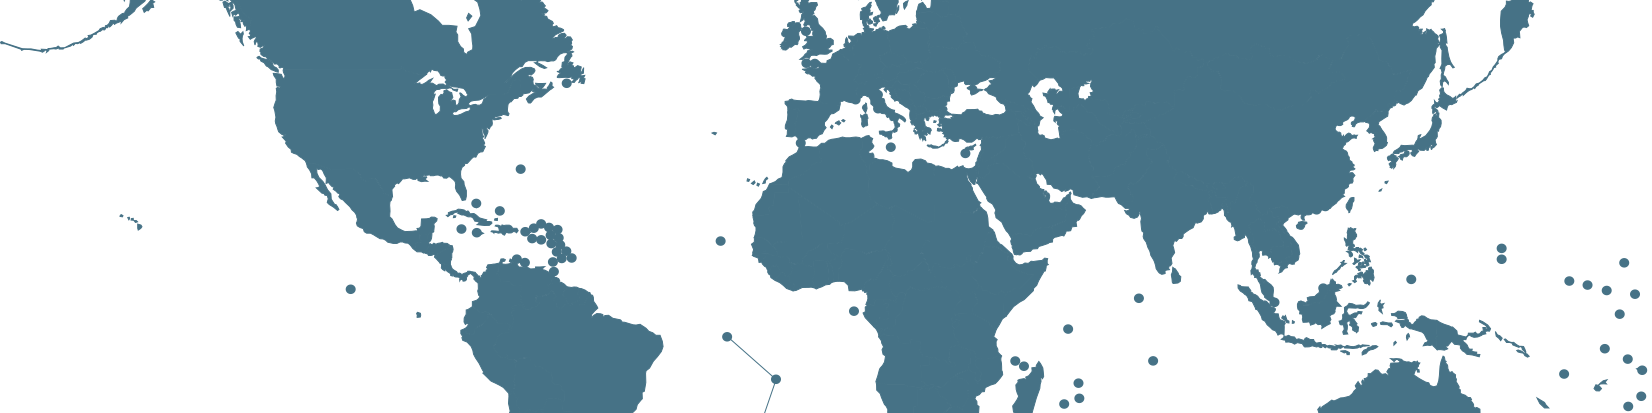
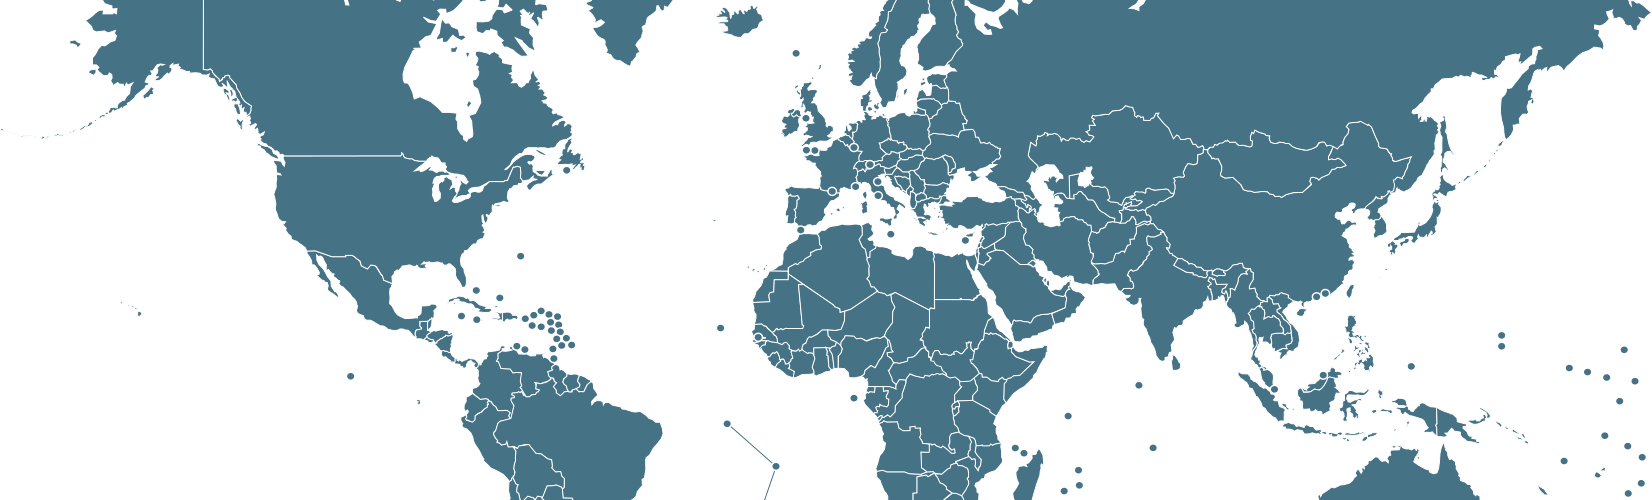
add all flights

diff --git a/bin/css/squiffles.css b/bin/css/squiffles.css
@@ -309,13 +309,18 @@ td {
   border-radius: 50%;
   font-style: normal;
 }
+.map-arc.map-arc-plane {
+  border-width: 0.1em 0 0 0;
+}
+.map-arc.map-arc-thumb {
+  border-width: 0.2em 0 0 0;
+}
 .map-point {
   display: block;
   position: absolute;
-  width: 0.35em;
-  height: 0.35em;
+  width: 0.4em;
+  height: 0.4em;
   margin: -0.2em;
-  border: 0.05em solid;
   border-radius: 0.2em;
 }
 .map-point::before {
@@ -331,7 +336,7 @@ td {
   display: block;
   position: absolute;
   top: 0.2em;
-  width: 20em;
+  width: 0;
   height: 2em;
   overflow: hidden;
   white-space: nowrap;
@@ -643,19 +648,19 @@ a.honeycomb-cell {
 }
 .aside {
   position: absolute;
+  bottom: 0;
   width: 24em;
   padding: 2em 0;
 }
 .aside-left {
-  left: -24em;
-  width: 24em;
+  left: 7.6em;
   transform: rotate(-90deg);
-  transform-origin: top right;
+  transform-origin: bottom left;
 }
 .aside-right {
-  right: -24em;
+  right: 7.6em;
   transform: rotate(90deg);
-  transform-origin: top left;
+  transform-origin: bottom right;
 }
 .showcase {
   text-align: center;
@@ -984,11 +989,11 @@ body.page #sidebar {
   height: 24em;
   color: #374952;
 }
-#about h2 {
-  color: #a6b8c1;
-}
 #about .aside, #about .honeycomb-cell {
   background-color: #374952;
+}
+#about h2 {
+  color: #a6b8c1;
 }
 #about .drop {
   color: #27556c;
@@ -1126,17 +1131,19 @@ body.page #sidebar {
   margin: 1.5em 13em 1.5em 3em;
 }
 #travel {
-  height: 24em;
+  height: 28em;
   background-color: #a6b8c1;
 }
 #travel h2 {
   color: #467286;
 }
-#travel .map-arc {
+#travel .map-arc.map-arc-plane {
+  border-color: rgba(55, 73, 82, 0.6);
+}
+#travel .map-arc.map-arc-thumb {
   border-color: rgba(157, 54, 76, 0.6);
 }
 #travel .map-point {
-  border-color: #374952;
   background-color: #aa9439;
 }
 #gallery {

diff --git a/src/index.php b/src/index.php
@@ -5,12 +5,12 @@ function squiffles_project($lat, $lng) {
   list($width, $height) = getimagesize(__DIR__ . '/../bin/images/world.png');
 
   return array(
-    ($lng + 187) * $width / 330,
-    355 - $width * log(tan(M_PI / 4 + $lat * M_PI / 360)) / M_PI / 2 * 1.1
+    ($lng + 188) * $width / 343,
+    440 - $width * log(tan(M_PI / 4 + $lat * M_PI / 360)) / M_PI / 2 * 1.05
   );
 }
 
-function squiffles_arc($lat0, $lng0, $lat1, $lng1, $height) {
+function squiffles_arc($lat0, $lng0, $lat1, $lng1, $height, $type) {
   list($x0, $y0) = squiffles_project($lat0, $lng0);
   list($x1, $y1) = squiffles_project($lat1, $lng1);
   $x = $x1 - $x0;
@@ -19,18 +19,21 @@ function squiffles_arc($lat0, $lng0, $lat1, $lng1, $height) {
   $top = ($y0 + $y1 - $height) / 2;
   $left = ($x0 + $x1 - $width) / 2;
   $theta = atan2($y, $x) * 180 / M_PI;
-  $transform = sprintf('transform: rotate(%ddeg);', $theta);
+  $transform = sprintf('transform: rotate(%.2fdeg);', $theta);
 
-  return sprintf(
-    'width: %.2fem; height: %.2fem; top: %.2fem; left: %.2fem; -webkit-%s ' .
-        '-moz-%s %s',
-    $width / 20,
-    $height / 20,
-    $top / 20,
-    $left / 20,
-    $transform,
-    $transform,
-    $transform
+  return array(
+    'style' => sprintf(
+      'width: %.2fem; height: %.2fem; top: %.2fem; left: %.2fem; -webkit-%s ' .
+          '-moz-%s %s',
+      $width / 20,
+      $height / 20,
+      $top / 20,
+      $left / 20,
+      $transform,
+      $transform,
+      $transform
+    ),
+    'type' => $type
   );
 }
 
@@ -45,37 +48,102 @@ function squiffles_point($lat, $lng, $label, $right) {
 }
 
 $arcs = array(
-  squiffles_arc(35.0044, -118.9495, 34.0522, -118.2437,  5), // 2014-11-06
-  squiffles_arc(37.7749, -122.4194, 35.0044, -118.9495, 10), // 2014-11-07
-  squiffles_arc(38.5816, -121.4944, 34.0522, -118.2437, 25), // 2015-03-23
-  squiffles_arc(44.0521, -123.0868, 38.5816, -121.4944, 10), // 2015-03-24
-  squiffles_arc(45.5051, -122.6750, 44.0521, -123.0868, 10), // 2015-03-25
-  squiffles_arc(47.6062, -122.3321, 45.5051, -122.6750, 10), // 2015-03-27
-  squiffles_arc(49.2827, -123.1207, 47.6062, -122.3321, 10), // 2015-03-29
-  squiffles_arc(34.0522, -118.2437, 35.4894, -120.6707, 10), // 2015-07-03
-  squiffles_arc(35.4894, -120.6707, 37.7749, -122.4194, 10), // 2015-07-04
-  squiffles_arc(34.0522, -118.2437, 37.7749, -122.4194, 30), // 2015-08-22
-  squiffles_arc(34.0522, -118.2437, 37.7749, -122.4194, 45), // 2015-11-21
-  squiffles_arc(49.2827, -123.1207, 47.9790, -122.2021, 25), // 2016-03-18
-  squiffles_arc(47.9790, -122.2021, 45.5051, -122.6750, 25), // 2016-03-19
-  squiffles_arc(45.5051, -122.6750, 47.6062, -122.3321, 10), // 2016-03-20
-  squiffles_arc(47.6062, -122.3321, 49.2827, -123.1207, 10), // 2016-03-21
-  squiffles_arc(36.1699, -115.1398, 34.0522, -118.2437, 10), // 2016-06-12
-  squiffles_arc(36.1699, -115.1398, 38.7725, -112.0841, 15), // 2016-06-13
-  squiffles_arc(38.7725, -112.0841, 39.7392, -104.9903, 20), // 2016-06-14
-  squiffles_arc(35.6762,  139.6503, 34.6937,  135.5023, 10), // 2017-03-21
-  squiffles_arc(34.6937,  135.5023, 35.6762,  139.6503, 10), // 2017-03-24
-  squiffles_arc(44.4268,   26.1025, 45.6427,   25.5887, 10), // 2017-07-05
-  squiffles_arc(45.6427,   25.5887, 44.1598,   28.6348, 10), // 2017-07-07
-  squiffles_arc(44.1598,   28.6348, 43.2141,   27.9147, 15), // 2017-07-11
-  squiffles_arc(43.2141,   27.9147, 41.9981,   21.4254, 20), // 2017-07-13
-  squiffles_arc(41.9981,   21.4254, 42.6629,   21.1655,  5), // 2017-07-16
-  squiffles_arc(39.1677, -120.1452, 37.7749, -122.4194, 10), // 2017-09-02
-  squiffles_arc(37.7749, -122.4194, 39.1677, -120.1452, 10), // 2017-09-03
-  squiffles_arc(45.4408,   12.3155, 44.4949,   11.3426, 10), // 2018-03-26
-  squiffles_arc(33.5731,   -7.5898, 31.6295,   -7.9811, 10), // 2018-09-08
-  squiffles_arc(55.9202,   21.0678, 56.5047,   21.0108,  5), // 2018-09-21
-  squiffles_arc( 3.1390,  101.6869,  5.4380,  100.3882, 10)  // 2019-01-26
+  squiffles_arc(45.5051, -122.6750, 34.0522, -118.2437,  20, 'plane'), // 2013-04-23
+  squiffles_arc(45.5051, -122.6750, 34.0522, -118.2437,  30, 'plane'), // 2013-04-28
+  squiffles_arc(45.5051, -122.6750, 31.2304,  121.4737, 150, 'plane'), // 2014-09-09
+  squiffles_arc(45.5051, -122.6750, 31.2304,  121.4737, 165, 'plane'), // 2014-09-24
+  squiffles_arc(34.0522, -118.2437, 37.7749, -122.4194,   5, 'plane'), // 2015-01-11
+  squiffles_arc(37.7749, -122.4194, 34.0522, -118.2437,  20, 'plane'), // 2015-01-12
+  squiffles_arc(49.2827, -123.1207, 34.0522, -118.2437,  45, 'plane'), // 2015-03-31
+  squiffles_arc(45.5051, -122.6750, 25.7617,  -80.1918,  60, 'plane'), // 2015-09-10
+  squiffles_arc(45.5051, -122.6750, 25.7617,  -80.1918,  75, 'plane'), // 2015-09-19
+  squiffles_arc( 4.7110,  -74.0721, 34.0522, -118.2437,  45, 'plane'), // 2016-03-07
+  squiffles_arc( 4.7110,  -74.0721, 34.0522, -118.2437,  60, 'plane'), // 2016-03-11
+  squiffles_arc(49.2827, -123.1207, 34.0522, -118.2437,  55, 'plane'), // 2016-03-16
+  squiffles_arc(39.7392, -104.9903, 34.0522, -118.2437,  30, 'plane'), // 2016-06-17
+  squiffles_arc(34.0522, -118.2437, 51.5074,    0.1278,  30, 'plane'), // 2016-12-03
+  squiffles_arc(34.0522, -118.2437, 51.5074,    0.1278,  45, 'plane'), // 2016-12-09
+  squiffles_arc(45.5051, -122.6750, 36.1699, -115.1398,  35, 'plane'), // 2016-12-25
+  squiffles_arc(45.5051, -122.6750, 36.1699, -115.1398,  45, 'plane'), // 2016-12-28
+  squiffles_arc(41.8781,  -87.6298, 34.0522, -118.2437,  45, 'plane'), // 2016-02-03
+  squiffles_arc(41.8781,  -87.6298, 34.0522, -118.2437,  60, 'plane'), // 2016-02-07
+  squiffles_arc(35.6762,  139.6503, 34.0522, -118.2437, 165, 'plane'), // 2017-03-19
+  squiffles_arc(35.6762,  139.6503, 34.0522, -118.2437, 180, 'plane'), // 2017-03-29
+  squiffles_arc(31.2304,  121.4737, 44.4268,   26.1025,  60, 'plane'), // 2017-07-02
+  squiffles_arc(44.7866,   20.4489, 34.0522, -118.2437, 120, 'plane'), // 2017-07-21
+  squiffles_arc(37.7749, -122.4194, 53.3498,   -6.2603, 135, 'plane'), // 2017-10-21
+  squiffles_arc(53.3498,   -6.2603, 50.0755,   14.4378,  45, 'plane'), // 2017-10-29
+  squiffles_arc(48.1351,   11.5820, 37.7749, -122.4194,  45, 'plane'), // 2017-11-03
+  squiffles_arc(37.7749, -122.4194, 39.7392, -104.9903,  40, 'plane'), // 2017-11-18
+  squiffles_arc(37.7749, -122.4194, 39.7392, -104.9903,  50, 'plane'), // 2017-11-20
+  squiffles_arc(37.7749, -122.4194, 36.1699, -115.1398,  15, 'plane'), // 2017-12-02
+  squiffles_arc(37.7749, -122.4194, 36.1699, -115.1398,  25, 'plane'), // 2017-12-04
+  squiffles_arc(37.7749, -122.4194, 45.5051, -122.6750,  25, 'plane'), // 2017-12-22
+  squiffles_arc(37.7749, -122.4194, 45.5051, -122.6750,  35, 'plane'), // 2018-01-04
+  squiffles_arc(37.7749, -122.4194, 35.0844, -106.6504,  40, 'plane'), // 2018-01-13
+  squiffles_arc(37.7749, -122.4194, 35.0844, -106.6504,  50, 'plane'), // 2018-01-16
+  squiffles_arc(37.7749, -122.4194, 47.6062, -122.3321,  50, 'plane'), // 2018-03-16
+  squiffles_arc(47.6062, -122.3321, 53.3498,   -6.2603,  60, 'plane'), // 2018-03-19
+  squiffles_arc(53.3498,   -6.2603, 45.4408,   12.3155,  45, 'plane'), // 2018-03-24
+  squiffles_arc(41.9028,   12.4964, 37.7749, -122.4194,  75, 'plane'), // 2018-03-31
+  squiffles_arc(32.7767,  -96.7970, 37.7749, -122.4194,  70, 'plane'), // 2018-06-24
+  squiffles_arc(32.7767,  -96.7970, 37.7749, -122.4194,  80, 'plane'), // 2018-06-27
+  squiffles_arc(33.5731,   -7.5898, 37.7749, -122.4194,  60, 'plane'), // 2018-09-01
+  squiffles_arc(33.5731,   -7.5898, 37.7749, -122.4194,  75, 'plane'), // 2018-09-07
+  squiffles_arc(37.7749, -122.4194, 59.9139,   10.7522, 165, 'plane'), // 2018-09-15
+  squiffles_arc(59.9139,   10.7522, 56.5047,   21.0108,  30, 'plane'), // 2018-09-16
+  squiffles_arc(37.7749, -122.4194, 56.5047,   21.0108, 165, 'plane'), // 2018-09-26
+  squiffles_arc(27.9506,  -82.4572, 37.7749, -122.4194, 105, 'plane'), // 2018-10-07
+  squiffles_arc(27.9506,  -82.4572, 37.7749, -122.4194, 120, 'plane'), // 2018-10-09
+  squiffles_arc(32.7767,  -96.7970, 34.0522, -118.2437,  30, 'plane'), // 2019-01-07
+  squiffles_arc( 3.1390,  101.6869, 37.7749, -122.4194, 120, 'plane'), // 2019-01-19
+  squiffles_arc( 6.3500,   99.8000, 37.7749, -122.4194, 120, 'plane'), // 2019-01-19
+  squiffles_arc(37.7749, -122.4194, 52.2297,   21.0122,  60, 'plane'), // 2019-03-31
+  squiffles_arc(37.7749, -122.4194, 52.2297,   21.0122,  75, 'plane'), // 2019-04-14
+  squiffles_arc(30.2672,  -97.7431, 37.7749, -122.4194,  75, 'plane'), // 2019-10-13
+  squiffles_arc(40.4406,  -79.9959, 30.2672,  -97.7431,  30, 'plane'), // 2019-10-19
+  squiffles_arc(32.7157, -117.1611, 37.7749, -122.4194,  60, 'plane'), // 2019-11-16
+  squiffles_arc(39.7392, -104.9903, 34.0522, -118.2437,  20, 'plane'), // 2019-11-23
+  squiffles_arc(37.9838,   23.7275, 37.7749, -122.4194, 120, 'plane'), // 2020-01-05
+  squiffles_arc(47.4979,   19.0402, 37.9838,   23.7275,  25, 'plane'), // 2020-01-10
+  squiffles_arc(43.7102,    7.2620, 47.4979,   19.0402,  25, 'plane'), // 2020-01-17
+  squiffles_arc(45.5051, -122.6750, 43.7102,    7.2620,  75, 'plane'), // 2020-01-23
+  squiffles_arc(45.5051, -122.6750, 40.4406,  -79.9959,  45, 'plane'), // 2020-01-26
+  squiffles_arc(39.7392, -104.9903, 40.4406,  -79.9959,  40, 'plane'), // 2020-03-10
+  squiffles_arc(47.6062, -122.3321, 40.4406,  -79.9959,  45, 'plane'), // 2020-09-15
+  squiffles_arc(21.3069, -157.8583, 47.6062, -122.3321,  60, 'plane'), // 2020-09-16
+  squiffles_arc(35.0044, -118.9495, 34.0522, -118.2437,   5, 'thumb'), // 2014-11-06
+  squiffles_arc(37.7749, -122.4194, 35.0044, -118.9495,  10, 'thumb'), // 2014-11-07
+  squiffles_arc(38.5816, -121.4944, 34.0522, -118.2437,  25, 'thumb'), // 2015-03-23
+  squiffles_arc(44.0521, -123.0868, 38.5816, -121.4944,  10, 'thumb'), // 2015-03-24
+  squiffles_arc(45.5051, -122.6750, 44.0521, -123.0868,  10, 'thumb'), // 2015-03-25
+  squiffles_arc(47.6062, -122.3321, 45.5051, -122.6750,  10, 'thumb'), // 2015-03-27
+  squiffles_arc(49.2827, -123.1207, 47.6062, -122.3321,  10, 'thumb'), // 2015-03-29
+  squiffles_arc(34.0522, -118.2437, 35.4894, -120.6707,  10, 'thumb'), // 2015-07-03
+  squiffles_arc(35.4894, -120.6707, 37.7749, -122.4194,  10, 'thumb'), // 2015-07-04
+  squiffles_arc(34.0522, -118.2437, 37.7749, -122.4194,  30, 'thumb'), // 2015-08-22
+  squiffles_arc(34.0522, -118.2437, 37.7749, -122.4194,  45, 'thumb'), // 2015-11-21
+  squiffles_arc(49.2827, -123.1207, 47.9790, -122.2021,  25, 'thumb'), // 2016-03-18
+  squiffles_arc(47.9790, -122.2021, 45.5051, -122.6750,  25, 'thumb'), // 2016-03-19
+  squiffles_arc(45.5051, -122.6750, 47.6062, -122.3321,  10, 'thumb'), // 2016-03-20
+  squiffles_arc(47.6062, -122.3321, 49.2827, -123.1207,  10, 'thumb'), // 2016-03-21
+  squiffles_arc(36.1699, -115.1398, 34.0522, -118.2437,  10, 'thumb'), // 2016-06-12
+  squiffles_arc(36.1699, -115.1398, 38.7725, -112.0841,  15, 'thumb'), // 2016-06-13
+  squiffles_arc(38.7725, -112.0841, 39.7392, -104.9903,  20, 'thumb'), // 2016-06-14
+  squiffles_arc(35.6762,  139.6503, 34.6937,  135.5023,  10, 'thumb'), // 2017-03-21
+  squiffles_arc(34.6937,  135.5023, 35.6762,  139.6503,  10, 'thumb'), // 2017-03-24
+  squiffles_arc(44.4268,   26.1025, 45.6427,   25.5887,  10, 'thumb'), // 2017-07-05
+  squiffles_arc(45.6427,   25.5887, 44.1598,   28.6348,  10, 'thumb'), // 2017-07-07
+  squiffles_arc(44.1598,   28.6348, 43.2141,   27.9147,  15, 'thumb'), // 2017-07-11
+  squiffles_arc(43.2141,   27.9147, 41.9981,   21.4254,  20, 'thumb'), // 2017-07-13
+  squiffles_arc(41.9981,   21.4254, 42.6629,   21.1655,   5, 'thumb'), // 2017-07-16
+  squiffles_arc(39.1677, -120.1452, 37.7749, -122.4194,  10, 'thumb'), // 2017-09-02
+  squiffles_arc(37.7749, -122.4194, 39.1677, -120.1452,  10, 'thumb'), // 2017-09-03
+  squiffles_arc(45.4408,   12.3155, 44.4949,   11.3426,  10, 'thumb'), // 2018-03-26
+  squiffles_arc(33.5731,   -7.5898, 31.6295,   -7.9811,  10, 'thumb'), // 2018-09-08
+  squiffles_arc(55.9202,   21.0678, 56.5047,   21.0108,   5, 'thumb'), // 2018-09-21
+  squiffles_arc( 3.1390,  101.6869,  5.4380,  100.3882,  10, 'thumb'), // 2019-01-26
+  squiffles_arc(36.1699, -115.1398, 34.0522, -118.2437,  25, 'thumb')  // 2019-08-11
 );
 
 $points = array(
@@ -84,6 +152,7 @@ $points = array(
   squiffles_point(31.9802,  120.8943, 'Nantong, China', false),
   squiffles_point(40.4406,  -79.9959, 'Pittsburgh, Pennsylvania', true),
   squiffles_point(45.5051, -122.6750, 'Portland, Oregon', false),
+  squiffles_point(40.2338, -111.6585, 'Provo, Utah', true),
   squiffles_point(37.7749, -122.4194, 'San Francisco, California', false),
   squiffles_point(21.4360, -158.1849, 'Waianae, Hawaii', true)
 );
